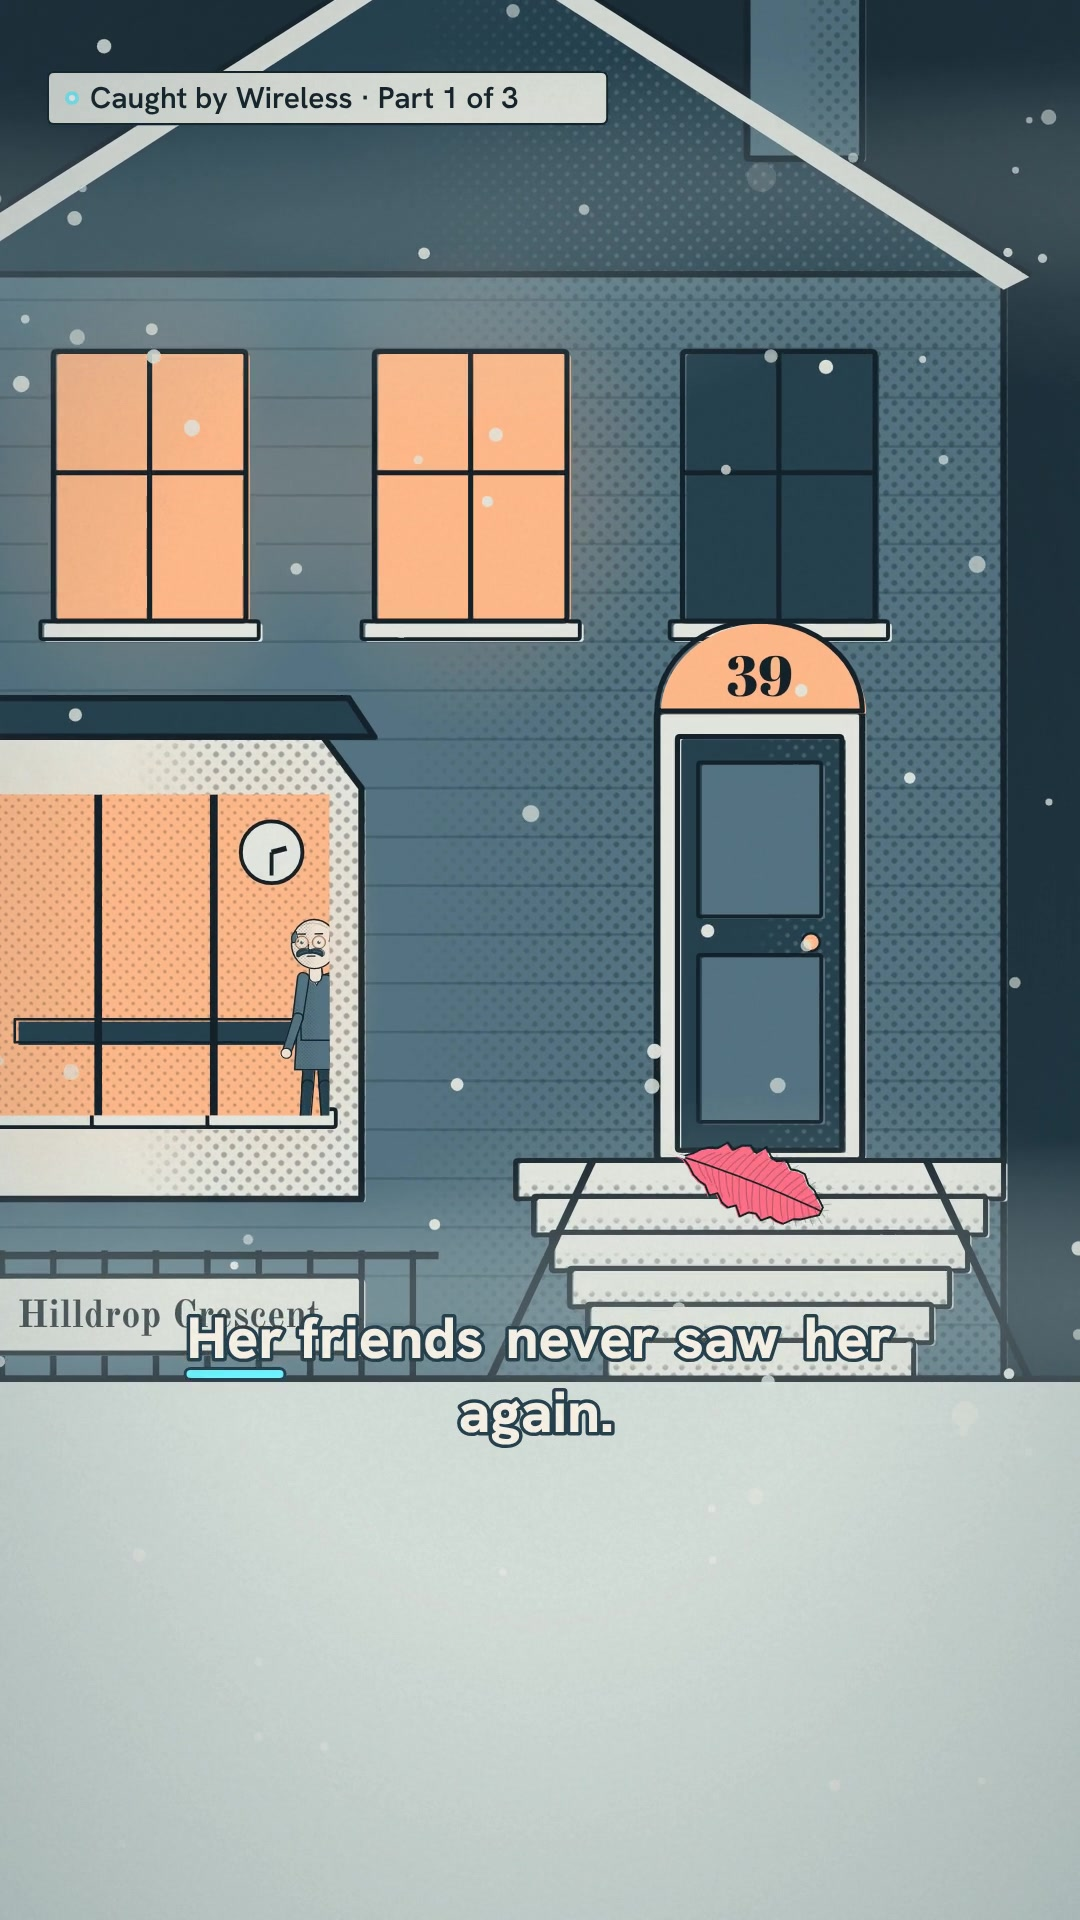
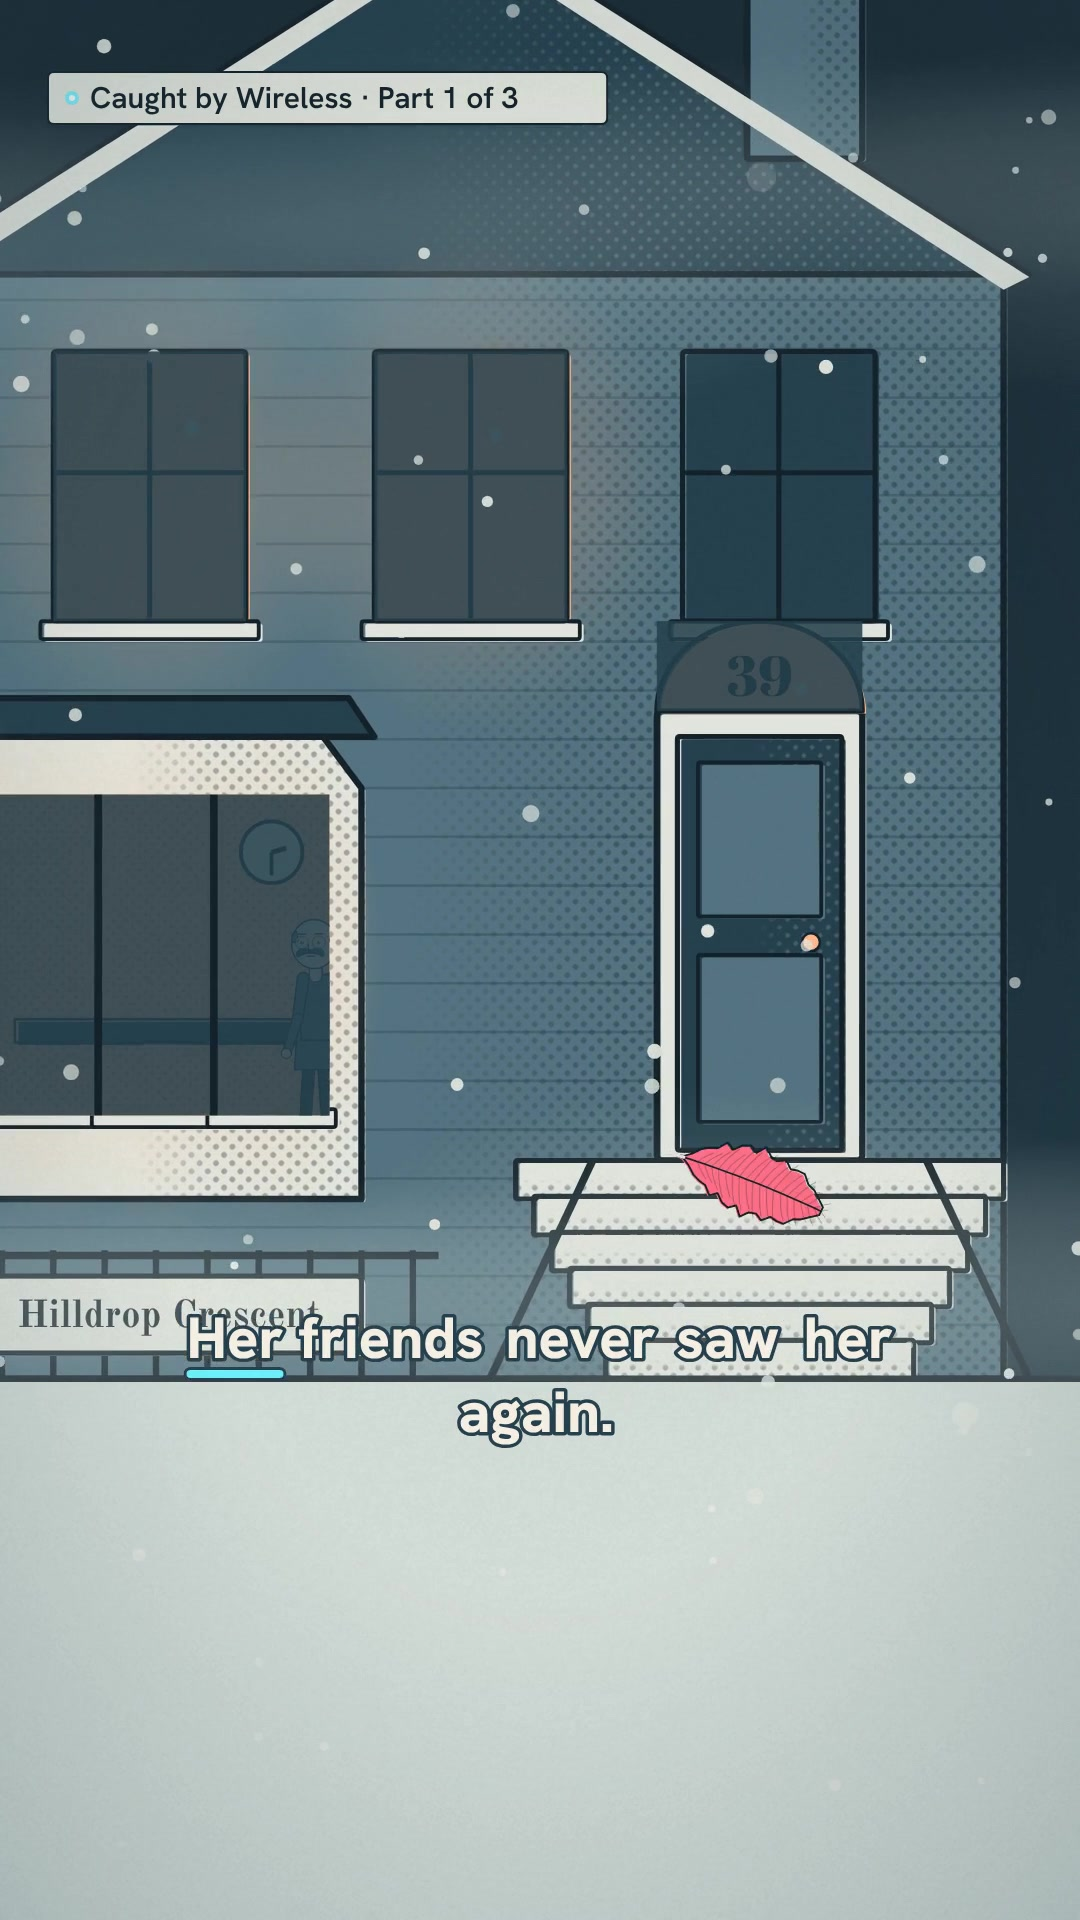
Wireless 1 v1.2: no face at the window (care), night-to-day as lights-out + dawn wipe (no dissolve)

diff --git a/projects/wireless-1/film/src/p1/scenes.tsx b/projects/wireless-1/film/src/p1/scenes.tsx
@@ -160,6 +160,8 @@ export const S2: StageFC = ({t, clip}) => {
 // kit Hilldrop: door x 770 (690–850, y 980–1330), top step (770,1330), bay window panes x 170–430 y 1050–1290.
 const WIN: [number, number] = [H39.winX, H39.winY];
 const STEP_TOP: [number, number] = [H39.doorX, H39.stepTop];
+// the kit Hilldrop's lit panes (upper windows, then the fanlight): they go dark in turn before the dawn sweep
+const LIGHTS: [number, number, number, number][] = [[220, 700, 150, 210], [470, 700, 150, 210], [0, 0, 0, 0], [690, 910, 160, 70]];
 const DAY = B.never + 0.3;            // night holds through "never saw her" (part 2's recap R1 is the snowy night steps)
 const DOC_HEAD: [number, number] = [STEP_TOP[0], STEP_TOP[1] - 608 * 0.55 * 0.86];
 const CLARA_AT: [number, number] = [430, 1500], PAUL_AT: [number, number] = [250, 1500];
@@ -186,20 +188,28 @@ export const S3: StageFC = ({t, clip}) => {
   const mState = (t < B.america ? 'on' : t < B.sick ? 'twitch' : t < B.questions ? 'sob' : t < B.fuzzy ? 'on' : 'twitch') as 'on';
   const doorOpen = t < B.steps_end ? 1 - doorClose : docAt ? ramp(t, B.soon - 0.4, 0.3) : 0;
   const houseNight = <Hilldrop fr={fr} variant="snow" door={doorOpen} />;
+  const dawnX = lerp(-600, 1700, day);
   return (
     <World cam={s3Cam(t)} bg={K.deep} clip={clip} id="s3">
       <InkDefs />
       <Layer k={1}>
+        {/* night → day without a dissolve: the house's lights go out one by one, then a dawn edge sweeps left to right; day is
+            revealed behind the edge (a wipe), never crossfaded */}
+        <defs><clipPath id="p1-dawn"><rect x={-1200} y={-1200} width={Math.max(0, dawnX + 1200)} height={4000} /></clipPath></defs>
         {day < 1 && houseNight}
-        {day > 0 && <g opacity={day}><Hilldrop fr={fr} variant="day" door={doorOpen} /></g>}
+        {day < 1 && LIGHTS.map(([x, y, w, h], i) => <rect key={i} x={x} y={y} width={w} height={h} fill={K.deep} opacity={0.88 * ramp(t, DAY - 0.75 + i * 0.12, 0.1)} />)}
+        {day > 0 && <g clipPath="url(#p1-dawn)"><Hilldrop fr={fr} variant="day" door={doorOpen} /></g>}
         {/* the bay window: the parlour at night (cards, laughter, the clock racing to 1:30), the calendar by day */}
         <g clipPath="url(#p1-win)">
           <defs><clipPath id="p1-win"><rect x={WIN[0] - H39.winW / 2} y={WIN[1] - H39.winH / 2} width={H39.winW} height={H39.winH} /></clipPath></defs>
-          {day < 1 && <g opacity={1 - day}><ParlourView t={t} /></g>}
-          {day > 0 && <g opacity={day}><rect x={WIN[0] - 140} y={WIN[1] - 130} width={280} height={260} fill={K.fog} />
+          {day < 1 && <ParlourView t={t} />}
+          {day < 1 && <rect x={WIN[0] - 140} y={WIN[1] - 130} width={280} height={260} fill={K.deep} opacity={0.88 * ramp(t, DAY - 0.75 + 2 * 0.12, 0.1)} />}
+          {day > 0 && <g clipPath="url(#p1-dawn)"><rect x={WIN[0] - 140} y={WIN[1] - 130} width={280} height={260} fill={K.fog} />
             <WallCalendar fr={fr} x={WIN[0] - 60} y={WIN[1] - 60} scale={0.5} months={['February 1910', 'March 1910']} flipAt={[f(B.again + 0.45)]} /></g>}
           <path d={`M${WIN[0] - 45},${WIN[1] - 125}V${WIN[1] + 125}M${WIN[0] + 45},${WIN[1] - 125}V${WIN[1] + 125}`} stroke={K.ink} strokeWidth={6} />
         </g>
+        {day > 0 && day < 1 && <g opacity={Math.sin(day * Math.PI)}><rect x={dawnX - 160} y={-1200} width={160} height={4000} fill="url(#p1-dawnedge)" /></g>}
+        <defs><linearGradient id="p1-dawnedge" x1="0" x2="1"><stop offset="0" stopColor={K.lamp} stopOpacity={0} /><stop offset="0.85" stopColor={K.lamp} stopOpacity={0.55} /><stop offset="1" stopColor="#fff" stopOpacity={0.8} /></linearGradient></defs>
         {/* the friends leave down the steps (night) */}
         {t < B.never && <>
           <Fig who="clara" x={lerp(STEP_TOP[0] - 60, -300, leave)} y={lerp(STEP_TOP[1], H39.ground, Math.min(1, leave * 2.4))} s={0.55} pose={leave > 0 && leave < 1 ? 'walk' : 'wave'} t={t} flip={leave > 0.02} />
@@ -220,7 +230,7 @@ export const S3: StageFC = ({t, clip}) => {
         {/* a nosy neighbour's curtain twitches upstairs while the doctor tells his sad news */}
         {t > B.sick - 0.4 && t < B.questions + 0.6 && (() => { const k = win(t, B.sick - 0.4, B.questions + 0.6, 0.4); return <g opacity={Math.min(1, k * 2.5)}>
           <clipPath id="p1-nosy"><rect x={222} y={702} width={146} height={206} /></clipPath>
-          <g clipPath="url(#p1-nosy)"><circle cx={300} cy={800 + (1 - k) * 160} r={34} fill={K.skin} stroke={K.ink} strokeWidth={4} /><circle cx={290} cy={796 + (1 - k) * 160} r={4} fill={K.ink} /><circle cx={312} cy={796 + (1 - k) * 160} r={4} fill={K.ink} />
+          <g clipPath="url(#p1-nosy)"><g transform={`translate(300,${830 + (1 - k) * 160})`}><path d="M-34,40Q-36,-20 0,-22Q36,-20 34,40z M-30,-8L-24,-40L-8,-20z M30,-8L24,-40L8,-20z" fill={K.ink} stroke={K.ink} strokeWidth={3} /><circle cx={-12} cy={2} r={5} fill={K.newsprint} /><circle cx={12} cy={2} r={5} fill={K.newsprint} /></g>
             <rect x={222 - k * 40 + Math.sin(t * 9) * 3 * k} y={702} width={74} height={206} fill={K.newsprint} stroke={K.ink} strokeWidth={3} /><rect x={296 + k * 40} y={702} width={74} height={206} fill={K.newsprint} stroke={K.ink} strokeWidth={3} /></g></g>; })()}
         {t > B.died + 0.1 && t < B.where && <text x={CLARA_AT[0]} y={CLARA_AT[1] - 640 * 0.6 - 30 - ramp(t, B.died + 0.1, 0.4) * 30} textAnchor="middle" fontFamily={FONT.display} fontSize={90} fill={K.newsprint} opacity={ramp(t, B.died + 0.1, 0.3)}>?</text>}
         {t < B.sick + 0.2 && <g opacity={1 - ramp(t, B.sick - 0.1, 0.25)}><BalloonA x={540} y={700} w={420} h={300} tail={DOC_HEAD} t={t} at={B.america - 0.2} text="AMERICA" picture={P1Picture('america')} wet wetAt={B.america + 0.3} /></g>}

diff --git a/projects/wireless-1/REPORT.md b/projects/wireless-1/REPORT.md
@@ -1,7 +1,18 @@
 # Caught by Wireless · Part 1: The missing singer — report
 
+## v1.2 (final judge polish, 05:03–05:12 UTC)
+**Final: `projects/wireless-1/renders/wireless-1_v1.2.mp4`**: 88.10 s, **2643 frames** (checked after the splice),
+**−14.0 LUFS, true peak −3.1 dBTP**. Frames 960–1265 re-rendered and spliced with the concat filter; seams checked on strips.
+1. **Care (~39–42 s):** the round face peering from the upper window of No. 39 (it could read as Cora's ghost) is gone;
+   the curtain twitch now shows the house cat peeking.
+2. **No dissolve (~32.5–34.1 s):** the snowy night → day change is no longer a crossfade: the house's lights go out pane
+   by pane after the door shuts, then a lamp-coloured dawn edge sweeps left to right and reveals the daytime house behind
+   it (a wipe of the same kit Hilldrop set).
+3. End card hold stays 2.08 s after typing (orchestrator confirmed). `stills/R1.jpg` re-taken from v1.2 (33.2 s: snowy
+   steps, door shut, Feather on the top step, lights going out); `stills/sheet_1fps.jpg` replaced.
+
 ## v1.1 (series continuity guidance from the orchestrator, 04:52–05:05 UTC)
-**Final: `projects/wireless-1/renders/wireless-1_v1.1.mp4`**: 88.10 s, **2643 frames** (checked), **−14.0 LUFS, true peak
+`projects/wireless-1/renders/wireless-1_v1.1.mp4`: 88.10 s, **2643 frames** (checked), **−14.0 LUFS, true peak
 −3.1 dBTP**. Changes, against `wireless-kit/continuity-early.md`:
 1. **End card held 2.08 s after it finishes typing** (was ~1 s): tail 2.6 → 3.7 s; total 88.1 s, still under 89.
 2. **Recap stills match part 2's recap panels** (part 2 draws R1 as the snowy night steps with the Feather on the top
@@ -14,8 +25,7 @@
 4. Already true and re-checked: Crippen A (glasses + heavy moustache) throughout part 1, the Moustache only as the gag
    device on his lip; cellar = lamps on a closed floor only; Cora warm; Ethel never ringed, never behind a grid; no
    page over ~75 % of the frame; music measured **10.5 dB under speech** from the stems (+10 dB).
-5. Not a dissolve but noted: the snowy night → day change at 39 is a 0.8 s lighting change of the same set (lit windows
-   go dark, sky pales), drawn as two variants of the kit Hilldrop crossfaded; nothing else in the film crossfades.
+5. The snowy night → day change at 39 was a 0.8 s crossfade of two Hilldrop variants; replaced in v1.2 (above).
 Full re-render (04:53–05:00), cues rebuilt from the same times, mix and loudness pass re-run. Flicker scan: all jumps are
 the push-through hand-offs and the WANTED board flip. motion_check not re-run (no shot lost movers).
 

diff --git a/projects/wireless-1/film/PLAN.md b/projects/wireless-1/film/PLAN.md
@@ -117,3 +117,4 @@ adopted · 03:47 motion_check #1 (14) · 03:53 kit READY → full adoption · 04
 04:12 mute judge 1 · 04:17 full render restarted with fixes · ~04:30 mute judge 2 · 04:20–04:45 partial re-renders
 (balloon, pops, R3 oval, story card) · 04:51 delivered.
 - 05:02 v1.1 delivered (continuity guidance: end-card hold 2.08 s, R1 night steps, labels 34 px; 88.10 s / 2643 frames).
+- 05:08 v1.2: window face → cat (care), night→day crossfade → lights-out + dawn wipe; frames 960–1265 spliced; 2643 frames.
